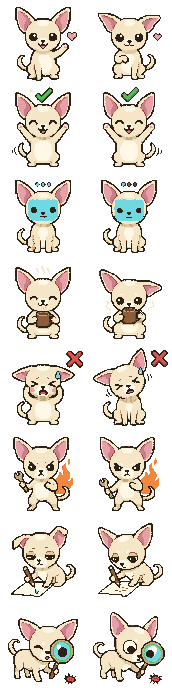
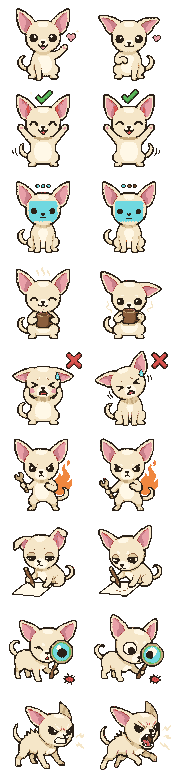
feat(home): 마스코트에 짖는 상태 추가
격자 여러 장을 받도록 고쳤다. 어느 격자의 몇 번째 행을 시트의 어느 줄에 놓을지는
LAYOUT 에 적는다. 두 장 모두 도트 한 칸이 6px 라 배율은 하나로 묶는다.

번개 표시가 셀 오른쪽 끝까지 뻗어 있어 잘라 낸다. 배율은 전 프레임이 함께 쓰는
값이라 그대로 두면 이 장식 하나 때문에 아홉 상태의 개가 모두 작아진다.

deploy-success 꼬리 보정은 뺐다. 교체한 격자에는 왼쪽 꼬리가 없고, 그 사각형이
A/B 정렬에서 옮겨 본 자리와 겹쳐 뒷다리 외곽선을 깎고 있었다.

버튼의 aria-label 이 내용을 가려서 상태 문구가 읽히지 않던 것을 함께 고쳤다.

diff --git a/_sass/_home.scss b/_sass/_home.scss
@@ -27,13 +27,13 @@
 .pet__sprite {
   /* 표시 배율은 이 값 하나로 정한다. 원본 도트 한 칸이 출력 한 칸이라 1배가 등배다.
      정수배만 쓴다. 소수 배율은 프레임 경계가 픽셀에 안 떨어져서 세로줄이 생긴다.
-     시트는 가로에 프레임 2장, 세로에 상태 8줄이 들어간 86px 격자다 */
+     시트는 가로에 프레임 2장, 세로에 상태 9줄이 들어간 86px 격자다 */
   --pet-scale: 1;
   width: calc(86px * var(--pet-scale));
   height: calc(86px * var(--pet-scale));
   background-image: url("/assets/pet/pet-sheet.png");
   background-repeat: no-repeat;
-  background-size: calc(172px * var(--pet-scale)) calc(688px * var(--pet-scale));
+  background-size: calc(172px * var(--pet-scale)) calc(774px * var(--pet-scale));
   image-rendering: pixelated;
   animation: petFrames var(--pet-dur, 800ms) steps(2) infinite;
 }
@@ -56,10 +56,11 @@
 .pet__sprite[data-state="deploy-success"] { background-position-y: calc(-86px * var(--pet-scale) * 1); --pet-dur: 500ms; }
 .pet__sprite[data-state="testing"] { background-position-y: calc(-86px * var(--pet-scale) * 2); --pet-dur: 700ms; }
 .pet__sprite[data-state="coffee"] { background-position-y: calc(-86px * var(--pet-scale) * 3); --pet-dur: 1200ms; }
-.pet__sprite[data-state="build-failed"] { background-position-y: calc(-86px * var(--pet-scale) * 4); --pet-dur: 500ms; }
+.pet__sprite[data-state="build-failed"] { background-position-y: calc(-86px * var(--pet-scale) * 4); --pet-dur: 550ms; }
 .pet__sprite[data-state="refactoring"] { background-position-y: calc(-86px * var(--pet-scale) * 5); --pet-dur: 400ms; }
 .pet__sprite[data-state="writing"] { background-position-y: calc(-86px * var(--pet-scale) * 6); --pet-dur: 600ms; }
 .pet__sprite[data-state="debugging"] { background-position-y: calc(-86px * var(--pet-scale) * 7); --pet-dur: 700ms; }
+.pet__sprite[data-state="barking"] { background-position-y: calc(-86px * var(--pet-scale) * 8); --pet-dur: 350ms; }
 
 /* 문구는 가만히 있다가 상태가 바뀔 때만 올라오며 나타난다.
    강아지가 이미 제 주기로 돌고 있어서, 문구까지 계속 움직이면 리듬이 둘로 갈린다 */

diff --git a/assets/js/site.js b/assets/js/site.js
@@ -238,7 +238,8 @@
       ['build-failed', '빌드 실패'],
       ['refactoring', '리팩토링 중'],
       ['writing', '글 쓰는 중'],
-      ['debugging', '버그 추적 중']
+      ['debugging', '버그 추적 중'],
+      ['barking', '!#%&$']
     ];
     var i = 0;
 
@@ -246,6 +247,8 @@
       i = (i + 1) % states.length;
       sprite.dataset.state = states[i][0];
       label.textContent = states[i][1];
+      /* 버튼의 aria-label 이 내용을 가리므로, 지금 상태를 여기에 같이 넣는다 */
+      btn.setAttribute('aria-label', '마스코트 ' + states[i][1] + '눌러서 상태 바꾸기');
       /* 클래스를 뗐다 붙이는 사이에 리플로우를 한 번 일으켜야 애니메이션이 다시 돈다 */
       label.classList.remove('is-in');
       void label.offsetWidth;

diff --git a/index.html b/index.html
@@ -15,7 +15,7 @@ title: Home
         <a class="btn btn--ghost" href="{{ '/about' | relative_url }}">소개 보기</a>
       </div>
     </div>
-    <button class="pet" type="button" aria-label="마스코트 상태 바꾸기">
+    <button class="pet" type="button" aria-label="마스코트 눌러서 상태 바꾸기">
       <span class="pet__sprite" data-state="idle-greeting"></span>
       <span class="pet__label"><span class="pet__label-text">대기 중</span><span class="pet__cursor" aria-hidden="true"></span></span>
     </button>

diff --git a/_pet/build_sheet.py b/_pet/build_sheet.py
@@ -1,10 +1,10 @@
 #!/usr/bin/env python3
-"""2x8 격자 한 장을 64x64 프레임 16장과 128x512 스프라이트시트로 만든다.
+"""생성 격자들을 86x86 프레임 18장과 172x774 스프라이트시트로 만든다.
 
     python3 _pet/build_sheet.py [--size N]
 
-표준 라이브러리만 쓴다. 흐름은 투명화 -> 셀 분할 -> 본체 검출 -> 64x64 재배치
--> 17색 양자화 -> 시트 병합이다.
+표준 라이브러리만 쓴다. 흐름은 투명화 -> 셀 분할 -> 본체 검출 -> 86x86 재배치
+-> 17색 양자화 -> A/B 정렬 -> 시트 병합이다.
 
 셀 경계를 신뢰하지 않는다는 원칙은 그대로 따르되, 정렬 기준을 프레임마다
 따로 잡지 않고 행마다 A 프레임 하나에서 뽑아 A 와 B 에 똑같이 적용한다.
@@ -23,39 +23,52 @@ sys.path.insert(0, str(Path(__file__).parent))
 from pngio import decode, encode  # noqa: E402
 
 ROOT = Path(__file__).resolve().parent.parent
-SHEET = Path(__file__).parent / 'source-grid.png'
+HERE = Path(__file__).parent
 OUT = ROOT / 'assets' / 'pet'
-ALIGNED = Path(__file__).parent / 'aligned'
-
-CELL_W, CELL_H = 512, 516
+ALIGNED = HERE / 'aligned'
 
 BACKGROUND = (253, 0, 251, 255)
 
+# 생성 격자들. 셀 높이는 파일마다 다르지만 도트 한 칸이 6px 로 같아서
+# 공통 배율 하나로 묶어도 개 크기가 행마다 어긋나지 않는다
+SOURCES = [
+    {'path': HERE / 'source-grid.png', 'cw': 512, 'ch': 516, 'cols': 2, 'rows': 8},
+    {'path': HERE / 'source-barking.png', 'cw': 512, 'ch': 484, 'cols': 2, 'rows': 1},
+]
+
+# 시트의 행 순서. (상태 이름, 격자 번호, 그 격자 안의 행 번호)
+LAYOUT = [
+    ('idle-greeting', 0, 0),
+    ('deploy-success', 0, 1),
+    ('testing', 0, 2),
+    ('coffee', 0, 3),
+    ('build-failed', 0, 4),
+    ('refactoring', 0, 5),
+    ('writing', 0, 6),
+    ('debugging', 0, 7),
+    ('barking', 1, 0),
+]
+
 # 원본 생성 단계에서 남은 결함을 배경색으로 덮는다.
-# deploy-success 의 B 프레임은 꼬리를 오른쪽으로 옮겨 그리면서 왼쪽 꼬리를 지우지
-# 않아 꼬리가 둘로 보인다. (상태 인덱스, 프레임 인덱스, x0, x1, y0, y1) 이고
-# 좌표는 셀 안에서 잰 값이다
+# (격자 번호, 격자 안의 행, 열, x0, x1, y0, y1) 이고 좌표는 셀 안에서 잰 값이다
 REPAIRS = [
-    # 꼬리가 몸통에 붙는 밑동까지 걷어내야 해서, 아래로 갈수록 좁아지는 모양을
-    # 사각형 세 개로 따라간다. 더 넓게 잡으면 엉덩이 실루엣이 잘린다.
-    # B 프레임은 A/B 정렬에서 원본을 8px 쯤 오른쪽으로 옮겨 보므로, 눈으로 잰
-    # 자리보다 오른쪽 경계를 그만큼 넉넉히 잡아야 밑동이 남지 않는다
-    (1, 1, 92, 160, 336, 419),
-    (1, 1, 100, 158, 420, 431),
-    (1, 1, 110, 152, 432, 441),
+    # barking 의 번개 표시가 셀 오른쪽으로 길게 뻗어 있다. 배율은 전 프레임이
+    # 함께 쓰는 값이라, 이 장식 하나 때문에 아홉 상태의 개가 모두 작아진다.
+    # 개는 x477 안쪽에 있으므로 번개 끝 네 칸만 자른다.
+    # 이 두 줄을 빼면 배율이 0.1605 에서 0.1467 로 떨어진다
+    (1, 0, 0, 478, 511, 0, 483),
+    (1, 0, 1, 478, 511, 0, 483),
 ]
 
 # 원본 도트 한 칸이 6px 이라 셀 512px 의 실제 도트 해상도는 85칸이다.
 # 86 은 거기에 맞춘 값이라 화면에서 확대하지 않고 1배로 쓸 수 있다.
 # 64 로 뽑으면 칸의 25%를 버리게 되고, 그걸 2배로 늘리면 뭉갠 자국이 커져 보인다
 SIZE = 86
-FOOT_Y = round(SIZE * 60 / 64)   # 발바닥이 놓이는 줄. 아래로 여유를 남긴다
+# 기준점을 놓는 줄. 줄일 때 마지막 줄이 살아남지 않아서 출력의 발바닥은 한 줄
+# 위(80)에 놓인다. 아래로 5칸 남는데 debugging 의 발밑 벌레가 그 칸을 쓴다
+FOOT_Y = round(SIZE * 60 / 64)
 CENTER_X = SIZE // 2
 FRAMES = ['a', 'b']
-STATES = [
-    'idle-greeting', 'deploy-success', 'testing', 'coffee',
-    'build-failed', 'refactoring', 'writing', 'debugging',
-]
 
 # 17색 고정 팔레트. 투명은 알파로 처리하므로 여기 넣지 않는다
 PALETTE = [
@@ -79,27 +92,31 @@ def is_background(px):
     return r > 150 and b > 150 and r - g > 60 and b - g > 55 and abs(r - b) < 70
 
 
-def repair(px):
-    """원본의 결함 영역을 배경색으로 덮는다. 본체를 재기 전에 부른다."""
-    for ri, ci, x0, x1, y0, y1 in REPAIRS:
-        for y in range(ri * CELL_H + y0, ri * CELL_H + y1 + 1):
+def repair(px, si):
+    """해당 격자의 결함 영역을 배경색으로 덮는다. 본체를 재기 전에 부른다."""
+    src = SOURCES[si]
+    for gi, ri, ci, x0, x1, y0, y1 in REPAIRS:
+        if gi != si:
+            continue
+        for y in range(ri * src['ch'] + y0, ri * src['ch'] + y1 + 1):
             row = px[y]
-            for x in range(ci * CELL_W + x0, ci * CELL_W + x1 + 1):
+            for x in range(ci * src['cw'] + x0, ci * src['cw'] + x1 + 1):
                 row[x] = BACKGROUND
 
 
-def cell_mask(px, ox, oy):
+def cell_mask(px, ox, oy, cw, ch):
     """셀 하나의 불투명 여부를 행별 bytearray 로."""
-    return [bytearray(0 if is_background(px[oy + y][ox + x]) else 1 for x in range(CELL_W))
-            for y in range(CELL_H)]
+    return [bytearray(0 if is_background(px[oy + y][ox + x]) else 1 for x in range(cw))
+            for y in range(ch)]
 
 
 def components(mask):
     """연결 성분을 (픽셀수, x0, x1, y0, y1) 로. 8방향으로 잇는다."""
-    seen = [bytearray(CELL_W) for _ in range(CELL_H)]
+    ch, cw = len(mask), len(mask[0])
+    seen = [bytearray(cw) for _ in range(ch)]
     out = []
-    for sy in range(CELL_H):
-        for sx in range(CELL_W):
+    for sy in range(ch):
+        for sx in range(cw):
             if not mask[sy][sx] or seen[sy][sx]:
                 continue
             stack = [(sy, sx)]
@@ -115,7 +132,7 @@ def components(mask):
                 for dy in (-1, 0, 1):
                     for dx in (-1, 0, 1):
                         ny, nx = cy + dy, cx + dx
-                        if 0 <= ny < CELL_H and 0 <= nx < CELL_W and mask[ny][nx] and not seen[ny][nx]:
+                        if 0 <= ny < ch and 0 <= nx < cw and mask[ny][nx] and not seen[ny][nx]:
                             seen[ny][nx] = 1
                             stack.append((ny, nx))
             out.append((n, x0, x1, y0, y1))
@@ -127,7 +144,7 @@ def nearest(color):
     return min(PALETTE, key=lambda q: sum((color[i] - q[i]) ** 2 for i in range(3)))
 
 
-def sample(px, ox, oy, xc, yb, scale):
+def sample(px, ox, oy, xc, yb, scale, cw, ch):
     """셀을 SIZE x SIZE 로 줄인다. 출력 픽셀마다 원본 영역의 최빈색을 쓴다.
 
     원본 도트 한 칸이 6px 인데 출력 한 픽셀이 그보다 커서, 한 점만 찍어 오면
@@ -146,9 +163,9 @@ def sample(px, ox, oy, xc, yb, scale):
             sy1 = yb + (oy_i + 1 - FOOT_Y) / scale
             seen = Counter()
             bg = total = 0
-            for y in range(max(int(sy0), 0), min(int(sy1) + 1, CELL_H)):
+            for y in range(max(int(sy0), 0), min(int(sy1) + 1, ch)):
                 line = px[oy + y]
-                for x in range(max(int(sx0), 0), min(int(sx1) + 1, CELL_W)):
+                for x in range(max(int(sx0), 0), min(int(sx1) + 1, cw)):
                     q = line[ox + x]
                     total += 1
                     if is_background(q):
@@ -160,9 +177,9 @@ def sample(px, ox, oy, xc, yb, scale):
                 continue
             bucket = seen.most_common(1)[0][0]
             exact = Counter()
-            for y in range(max(int(sy0), 0), min(int(sy1) + 1, CELL_H)):
+            for y in range(max(int(sy0), 0), min(int(sy1) + 1, ch)):
                 line = px[oy + y]
-                for x in range(max(int(sx0), 0), min(int(sx1) + 1, CELL_W)):
+                for x in range(max(int(sx0), 0), min(int(sx1) + 1, cw)):
                     q = line[ox + x]
                     if not is_background(q) and (q[0] >> 3, q[1] >> 3, q[2] >> 3) == bucket:
                         exact[(q[0], q[1], q[2])] += 1
@@ -218,45 +235,55 @@ def best_shift(fa, fb, reach=3):
 
 
 def main():
-    w, h, px = decode(SHEET)
-    if (w, h) != (CELL_W * 2, CELL_H * len(STATES)):
-        raise SystemExit(f'격자 크기가 예상과 다르다: {w}x{h}')
-    repair(px)
+    grids = []
+    for si, src in enumerate(SOURCES):
+        w, h, px = decode(src['path'])
+        if (w, h) != (src['cw'] * src['cols'], src['ch'] * src['rows']):
+            raise SystemExit(f"{src['path'].name} 격자 크기가 예상과 다르다: {w}x{h}")
+        repair(px, si)
+        opaque = sum(1 for r in px for p in r if not is_background(p))
+        print(f"{src['path'].name}  불투명 비율 {opaque / (w * h):.3f} (0.15~0.5 정상)")
+        grids.append(px)
 
-    opaque = sum(1 for r in px for p in r if not is_background(p))
-    print(f'투명화 후 불투명 비율 {opaque / (w * h):.3f} (0.15~0.5 정상)')
+    def origin(li, ci):
+        _, si, sr = LAYOUT[li]
+        src = SOURCES[si]
+        return si, ci * src['cw'], sr * src['ch'], src['cw'], src['ch']
 
     # 셀마다 본체(가장 큰 연결 성분)와 전체 내용 상자를 잰다
     body, content = {}, {}
-    for ri, state in enumerate(STATES):
-        for ci, fr in enumerate(FRAMES):
-            comps = components(cell_mask(px, ci * CELL_W, ri * CELL_H))
-            body[(ri, ci)] = comps[0]
-            content[(ri, ci)] = (min(c[1] for c in comps), max(c[2] for c in comps),
+    for li in range(len(LAYOUT)):
+        for ci in range(len(FRAMES)):
+            si, ox, oy, cw, ch = origin(li, ci)
+            comps = components(cell_mask(grids[si], ox, oy, cw, ch))
+            body[(li, ci)] = comps[0]
+            content[(li, ci)] = (min(c[1] for c in comps), max(c[2] for c in comps),
                                  min(c[3] for c in comps), max(c[4] for c in comps))
 
     # 행마다 A 프레임에서 기준점을 뽑는다
-    anchor = {ri: ((body[(ri, 0)][1] + body[(ri, 0)][2]) / 2, body[(ri, 0)][4])
-              for ri in range(len(STATES))}
+    anchor = {li: ((body[(li, 0)][1] + body[(li, 0)][2]) / 2, body[(li, 0)][4])
+              for li in range(len(LAYOUT))}
 
-    # 모든 셀의 내용이 64x64 안에 들어가는 가장 큰 배율을 고른다.
+    # 모든 셀의 내용이 캔버스 안에 들어가는 가장 큰 배율을 고른다.
     # 머리 위 체크와 등 뒤 불꽃 같은 액센트까지 포함한 상자로 따진다.
     # 가장자리에 1px 을 남겨서 액센트가 캔버스 끝에 붙지 않게 한다
     margin = 1
     scale = min(
         limit
-        for ri in range(len(STATES))
+        for li in range(len(LAYOUT))
         for ci in range(len(FRAMES))
         for limit in (
-            (CENTER_X - margin) / max(anchor[ri][0] - content[(ri, ci)][0], 1e-9),
-            (SIZE - 1 - margin - CENTER_X) / max(content[(ri, ci)][1] - anchor[ri][0], 1e-9),
-            (FOOT_Y - margin) / max(anchor[ri][1] - content[(ri, ci)][2], 1e-9),
-            (SIZE - 1 - margin - FOOT_Y) / max(content[(ri, ci)][3] - anchor[ri][1], 1e-9),
+            (CENTER_X - margin) / max(anchor[li][0] - content[(li, ci)][0], 1e-9),
+            (SIZE - 1 - margin - CENTER_X) / max(content[(li, ci)][1] - anchor[li][0], 1e-9),
+            (FOOT_Y - margin) / max(anchor[li][1] - content[(li, ci)][2], 1e-9),
+            (SIZE - 1 - margin - FOOT_Y) / max(content[(li, ci)][3] - anchor[li][1], 1e-9),
         )
     )
-    print(f'공통 배율 {scale:.4f} (원본 {1 / scale:.1f}px -> 출력 1px), '
-          f'본체 높이 {body[(0, 0)][4] - body[(0, 0)][3] + 1} -> '
-          f'{round((body[(0, 0)][4] - body[(0, 0)][3] + 1) * scale)}px')
+    print(f'공통 배율 {scale:.4f} (원본 {1 / scale:.1f}px -> 출력 1px)')
+
+    def take(li, ci, xc, yb):
+        si, ox, oy, cw, ch = origin(li, ci)
+        return sample(grids[si], ox, oy, xc, yb, scale, cw, ch)
 
     # 본체 최하단을 원본에서 재서 기준점을 잡았지만, 줄일 때 마지막 줄이 살아남는지는
     # 그 줄에 원본 픽셀이 얼마나 걸리느냐에 달려 있어 행마다 1px 씩 갈린다.
@@ -265,23 +292,22 @@ def main():
         return max(y for y in range(SIZE)
                    if sum(1 for c in frame[y] if c) >= 4)
 
-    probe = {ri: body_bottom(sample(px, 0, ri * CELL_H, *anchor[ri], scale))
-             for ri in range(len(STATES))}
+    probe = {li: body_bottom(take(li, 0, *anchor[li])) for li in range(len(LAYOUT))}
     target = Counter(probe.values()).most_common(1)[0][0]
-    for ri, got in probe.items():
+    for li, got in probe.items():
         if got != target:
-            xc, yb = anchor[ri]
-            anchor[ri] = (xc, yb - (target - got) / scale)
+            xc, yb = anchor[li]
+            anchor[li] = (xc, yb - (target - got) / scale)
     print(f'발바닥 줄 {target} 로 정렬 '
-          f'(보정한 행 {[STATES[ri] for ri, g in probe.items() if g != target] or "없음"})')
+          f'(보정한 행 {[LAYOUT[li][0] for li, g in probe.items() if g != target] or "없음"})')
 
     ALIGNED.mkdir(parents=True, exist_ok=True)
     frames = {}
     print('행: A/B 다른 픽셀 (정렬 전 -> 정렬 후, 옮긴 양)')
-    for ri, state in enumerate(STATES):
-        xc, yb = anchor[ri]
-        fa = sample(px, 0, ri * CELL_H, xc, yb, scale)
-        fb = sample(px, CELL_W, ri * CELL_H, xc, yb, scale)
+    for li, (state, si, sr) in enumerate(LAYOUT):
+        xc, yb = anchor[li]
+        fa = take(li, 0, xc, yb)
+        fb = take(li, 1, xc, yb)
 
         # B 가 셀 안에서 밀려 그려진 만큼을 되돌린다. 출력 한 칸 단위로 대강 찾은 뒤
         # 잘게 흔들어 보고, 고른 양만큼 원본 좌표에서 다시 뽑는다.
@@ -291,26 +317,24 @@ def main():
         best = (diff_count(fa, fb), 0.0, 0.0, fb)
         for sx in (dx - 0.5, dx - 0.25, dx, dx + 0.25, dx + 0.5):
             for sy in (dy - 0.5, dy, dy + 0.5):
-                cand = sample(px, CELL_W, ri * CELL_H,
-                              xc - sx / scale, yb - sy / scale, scale)
+                cand = take(li, 1, xc - sx / scale, yb - sy / scale)
                 n = diff_count(fa, cand)
                 if n < best[0]:
                     best = (n, sx, sy, cand)
-        frames[(ri, 0)], frames[(ri, 1)] = fa, best[3]
+        frames[(li, 0)], frames[(li, 1)] = fa, best[3]
         print(f'  {state:15} {diff_count(fa, fb):5} -> {best[0]:5}  '
               f'(dx{best[1]:+.2f} dy{best[2]:+.2f})')
 
         for ci, fr in enumerate(FRAMES):
             rgba = [[c + (255,) if c else (0, 0, 0, 0) for c in row]
-                    for row in frames[(ri, ci)]]
+                    for row in frames[(li, ci)]]
             (ALIGNED / f'{state}_{fr}.png').write_bytes(encode(rgba))
 
-    # 128x512 시트. 행 순서는 STATES 그대로
-    sheet = [frames[(ri, 0)][y] + frames[(ri, 1)][y]
-             for ri in range(len(STATES)) for y in range(SIZE)]
+    sheet = [frames[(li, 0)][y] + frames[(li, 1)][y]
+             for li in range(len(LAYOUT)) for y in range(SIZE)]
     path = OUT / 'pet-sheet.png'
     path.write_bytes(encode_indexed(sheet))
-    print(f'{path.relative_to(ROOT)}  {SIZE * 2}x{SIZE * len(STATES)}  '
+    print(f'{path.relative_to(ROOT)}  {SIZE * 2}x{SIZE * len(LAYOUT)}  '
           f'{path.stat().st_size}B')
 
 
